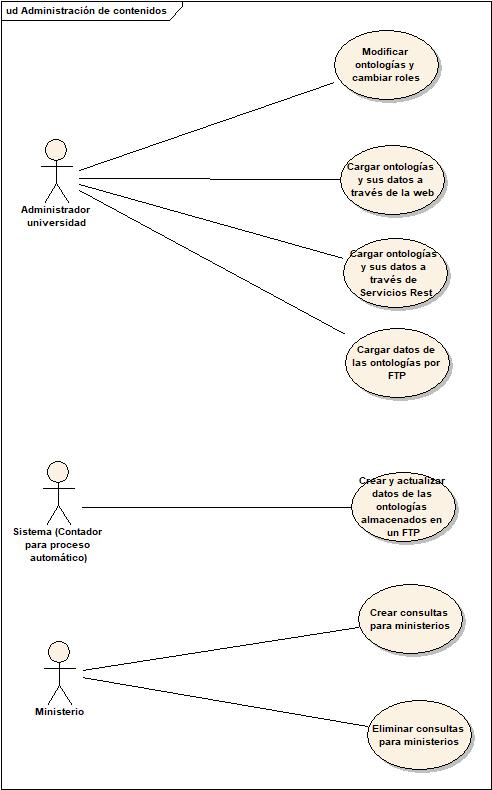
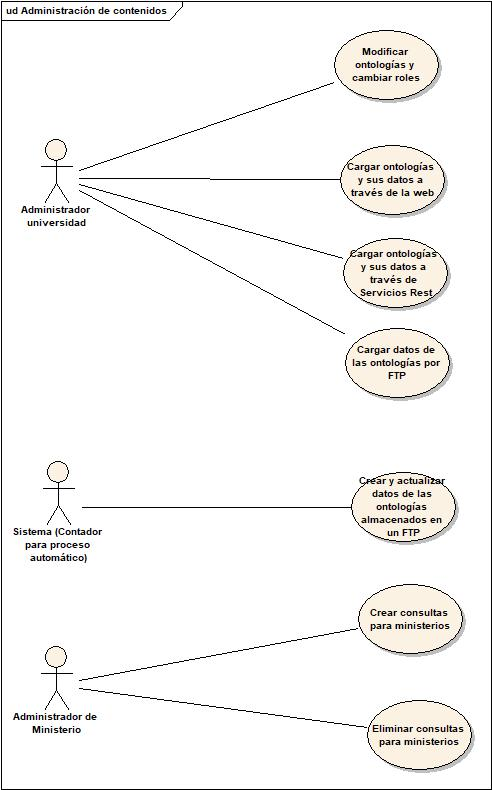
cambios en la documentación

Changed region(s): [[0.0305, 0.8203, 0.1829, 0.9418], [0.1829, 0.8506, 0.2439, 0.881]]

diff --git a/arquitectura_semantica/analisis_funcional/Requisitos/Requisitos funcionales.md b/arquitectura_semantica/analisis_funcional/Requisitos/Requisitos funcionales.md
@@ -26,7 +26,7 @@
 
 | Código | Requisito                                                    | Prioridad |
 | ------ | ------------------------------------------------------------ | --------- |
-|        | La aplicación constará de una serie de roles predefinidos:<br />- *Gestor ASIO*: Es el administrador del sistema. Podrá administrar roles y modificar la frecuencia de los procesos automáticos de carga de datos. <br />- *Administrador de universidad*: Podrá crear y modificar ontologías relativas a su universidad y les asignará roles, cargar datos relativos a esa universidad y modificar los roles de los datos<br />- *Investigador de universidad*: Podrá ver los datos asignados a su rol, y los datos de usuario para consultas.<br />- *Usuario para consultas de universidad*: Podrá ver datos asignados a este rol.<br />- *Ministerio (ministerio, FECYT agencia de ciencia):* Podrá ver los datos asignados a su rol, ejecutar consultas SparQL personalizadas y dispondrán de un mecanismo para añadir/borrar consultas.<br />- *Gobierno regional*: Podrá ver los datos asignados a su rol.<br />- *Agencia Española de investigación*: Podrá ver los datos asignados a su rol. |           |
+|        | La aplicación constará de una serie de roles predefinidos:<br />- *Gestor ASIO*: Es el administrador del sistema. Podrá administrar roles y modificar la frecuencia de los procesos automáticos de carga de datos. <br />- *Administrador de universidad*: Podrá crear y modificar ontologías relativas a su universidad y les asignará roles, cargar datos relativos a esa universidad y modificar los roles de los datos<br />- *Investigador de universidad*: Podrá ver los datos asignados a su rol, y los datos de usuario para consultas.<br />- *Usuario para consultas de universidad*: Podrá ver datos asignados a este rol.<br />- *Administrador de Ministerio (ministerio, FECYT agencia de ciencia):* Podrá añadir/borrar consultas SparQL personalizadas para los usuarios de Ministerio.<br />- *Usuario de Ministerio (ministerio, FECYT agencia de ciencia):* Podrá ver los datos asignados a su rol y ejecutar consultas SparQL personalizadas.<br />- *Gobierno regional*: Podrá ver los datos asignados a su rol.<br />- *Agencia Española de investigación*: Podrá ver los datos asignados a su rol. |           |
 |        | Cuando el usuario se registra a través de SIR, si este sistema devuelve su rol y hay una equivalencia con los roles existentes en la aplicación, se le asignará su rol automáticamente. |           |
 |        | Cuando el usuario se registra a través de SIR, si este sistema devuelve su rol y no hay una equivalencia con los roles existentes en la aplicación, se creará su usuario pero sólo podrá acceder al contenido público del portal. |           |
 |        | Los usuarios con rol gestor ASIO podrán crear roles mediante una pantalla. |           |

diff --git a/arquitectura_semantica/analisis_funcional/Requisitos/Requisitos no funcionales.md b/arquitectura_semantica/analisis_funcional/Requisitos/Requisitos no funcionales.md
@@ -91,6 +91,7 @@
 | ------ | ------------------------------------------------------------ | --------- |
 |        | El software debe garantizar el acceso al sistema de las personas autorizadas en cada parte. |           |
 |        | El protocolo permitirá autenticación y autorización.         |           |
+|        | Las páginas web de documentación, serán públicas.            |           |
 |        | El acceso a los datos del triple-store  estará restringido. y solamente se podrá realizar a través del componente  gestor de datos, el cual contiene una gestión de usuarios y control de acceso |           |
 |        | El acceso a los datos del triple-store   solamente se podrá realizar a través del componente  gestor de datos, el cual contiene una gestión de usuarios y control de acceso |           |
 |        | El gestor de datos debe incluir un sistema de permisos con diferentes niveles de acceso a los datos. |           |
